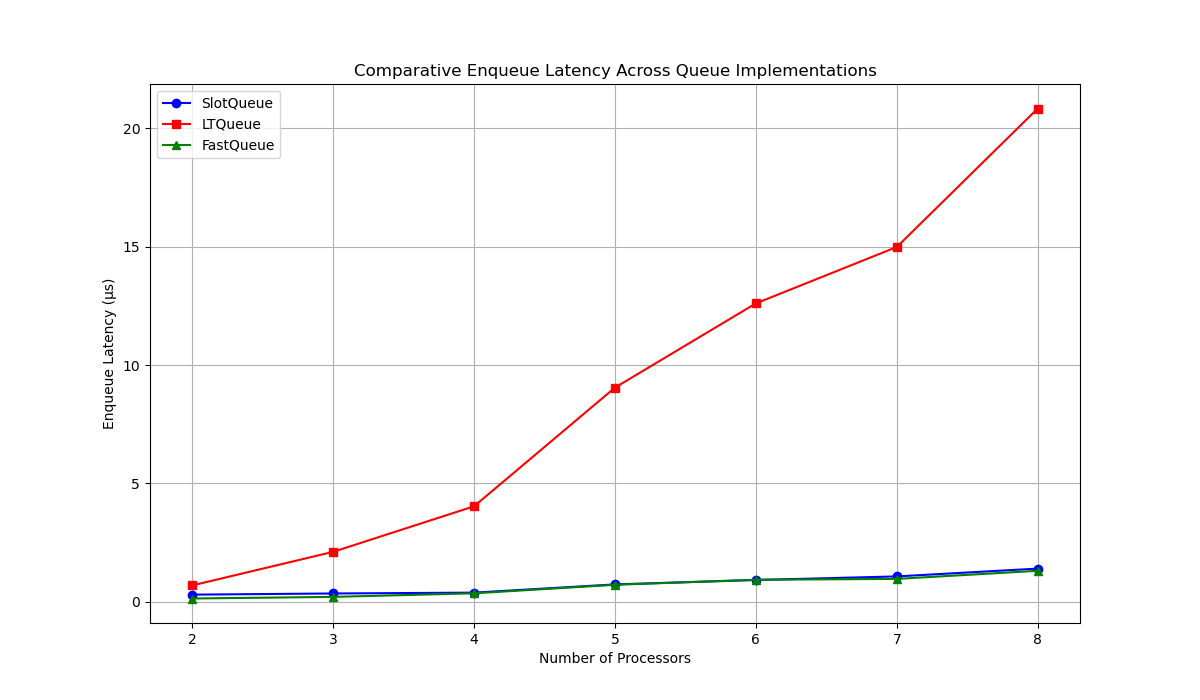
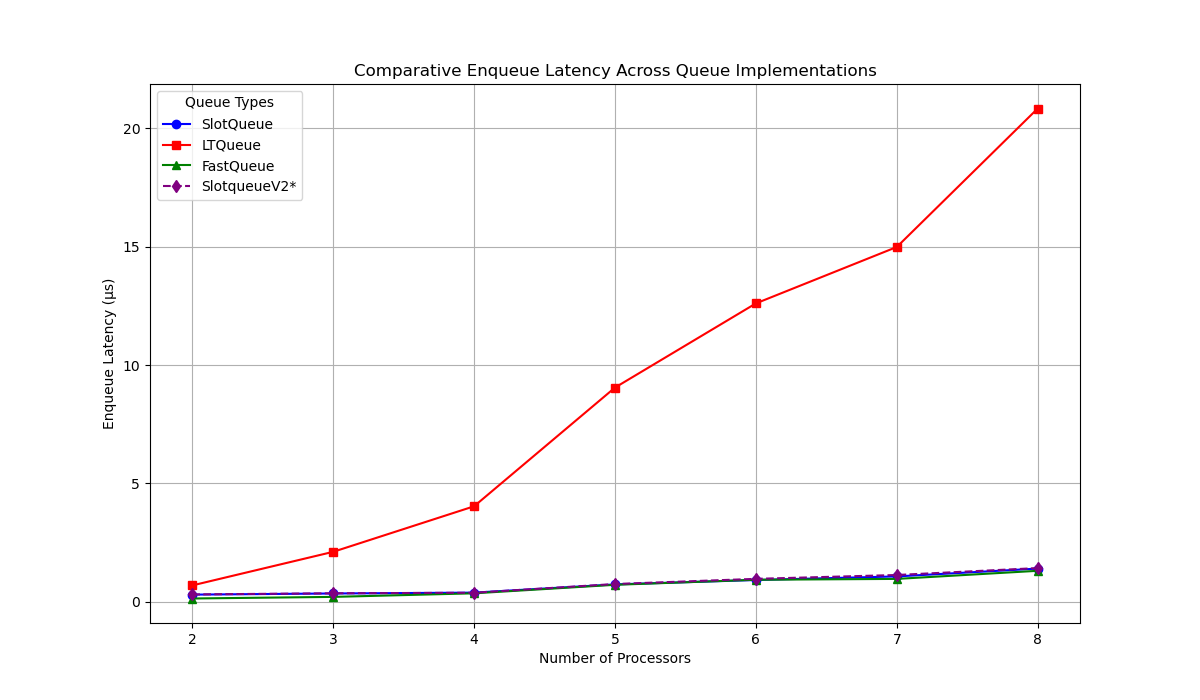
feat: add slotqueue v2 benchmarks

diff --git a/implementations/benches/microbenchmarks/single-one-queue.hpp b/implementations/benches/microbenchmarks/single-one-queue.hpp
@@ -4,6 +4,7 @@
 #include "benches/utils.h"
 #include "ltqueue/ltqueue.hpp"
 #include "slot-queue/slot-queue.hpp"
+#include "slot-queue/slot-queue-v2.hpp"
 #include <chrono>
 #include <mpi.h>
 #include <thread>
@@ -116,6 +117,118 @@ slotqueue_single_one_queue_microbenchmark(unsigned long long number_of_elements,
   }
 
   report("Slotqueue", number_of_elements, iterations, total_microseconds,
+         total_dequeues, total_successful_dequeues, total_dequeues_microseconds,
+         total_enqueues, total_successful_enqueues, total_enqueues_microseconds,
+         total_enqueues_latency_microseconds);
+}
+
+inline void slotqueueV2_single_one_queue_microbenchmark(
+    unsigned long long number_of_elements, int iterations = 10) {
+  int size;
+  int rank;
+  MPI_Comm_size(MPI_COMM_WORLD, &size);
+  MPI_Comm_rank(MPI_COMM_WORLD, &rank);
+  unsigned long long elements_per_queue = number_of_elements / (size - 1) + 1;
+
+  double total_enqueues = 0;
+  double total_dequeues = 0;
+  double total_successful_enqueues = 0;
+  double total_successful_dequeues = 0;
+  double total_microseconds = 0;
+  double total_enqueues_microseconds = 0;
+  double total_dequeues_microseconds = 0;
+  double total_enqueues_latency_microseconds = 0;
+
+  for (int i = 0; i < iterations; ++i) {
+    double local_enqueues = 0;
+    double local_dequeues = 0;
+    double local_successful_enqueues = 0;
+    double local_successful_dequeues = 0;
+    double local_microseconds = 0;
+    double local_enqueues_microseconds = 0;
+    double local_dequeues_microseconds = 0;
+
+    if (rank == 0) {
+      SlotDequeuerV2<int> queue(elements_per_queue, rank, rank, MPI_COMM_WORLD);
+      std::this_thread::sleep_for(std::chrono::microseconds(100));
+      auto t1 = std::chrono::high_resolution_clock::now();
+      while (local_successful_dequeues < number_of_elements) {
+        int output;
+        if (queue.dequeue(&output)) {
+          ++local_dequeues;
+          ++local_successful_dequeues;
+        } else {
+          ++local_dequeues;
+        }
+      }
+      auto t2 = std::chrono::high_resolution_clock::now();
+      local_microseconds =
+          std::chrono::duration_cast<std::chrono::microseconds>(t2 - t1)
+              .count();
+      local_dequeues_microseconds = local_microseconds;
+    } else {
+      SlotEnqueuerV2<int> queue(elements_per_queue, 0, rank, MPI_COMM_WORLD);
+      auto t1 = std::chrono::high_resolution_clock::now();
+      for (unsigned long long i = 0; i < elements_per_queue; ++i) {
+        if (queue.enqueue(i)) {
+          ++local_enqueues;
+          ++local_successful_enqueues;
+        } else {
+          ++local_enqueues;
+        }
+      }
+      auto t2 = std::chrono::high_resolution_clock::now();
+      local_microseconds =
+          std::chrono::duration_cast<std::chrono::microseconds>(t2 - t1)
+              .count();
+      local_enqueues_microseconds = local_microseconds;
+    }
+
+    double enqueues = 0;
+    double dequeues = 0;
+    double successful_enqueues = 0;
+    double successful_dequeues = 0;
+    double microseconds = 0;
+    double enqueues_microseconds = 0;
+    double dequeues_microseconds = 0;
+    double enqueues_latency_microseconds = 0;
+
+    MPI_Allreduce(&local_dequeues, &dequeues, 1, MPI_DOUBLE, MPI_SUM,
+                  MPI_COMM_WORLD);
+
+    MPI_Allreduce(&local_enqueues, &enqueues, 1, MPI_DOUBLE, MPI_SUM,
+                  MPI_COMM_WORLD);
+
+    MPI_Allreduce(&local_successful_dequeues, &successful_dequeues, 1,
+                  MPI_DOUBLE, MPI_SUM, MPI_COMM_WORLD);
+
+    MPI_Allreduce(&local_successful_enqueues, &successful_enqueues, 1,
+                  MPI_DOUBLE, MPI_SUM, MPI_COMM_WORLD);
+
+    MPI_Allreduce(&local_microseconds, &microseconds, 1, MPI_DOUBLE, MPI_MAX,
+                  MPI_COMM_WORLD);
+
+    MPI_Allreduce(&local_enqueues_microseconds, &enqueues_microseconds, 1,
+                  MPI_DOUBLE, MPI_SUM, MPI_COMM_WORLD);
+    enqueues_microseconds /= size - 1;
+
+    MPI_Allreduce(&local_enqueues_microseconds, &enqueues_latency_microseconds,
+                  1, MPI_DOUBLE, MPI_SUM, MPI_COMM_WORLD);
+
+    MPI_Allreduce(&local_dequeues_microseconds, &dequeues_microseconds, 1,
+                  MPI_DOUBLE, MPI_MAX, MPI_COMM_WORLD);
+
+    total_enqueues += enqueues;
+    total_dequeues += dequeues;
+    total_successful_dequeues += successful_dequeues;
+    total_successful_enqueues += successful_enqueues;
+    total_microseconds += microseconds;
+    total_enqueues_microseconds += enqueues_microseconds;
+    total_enqueues_latency_microseconds += enqueues_latency_microseconds;
+    total_dequeues_microseconds += dequeues_microseconds;
+  }
+
+  report("SlotqueueV2", number_of_elements, iterations, total_microseconds,
          total_dequeues, total_successful_dequeues, total_dequeues_microseconds,
          total_enqueues, total_successful_enqueues, total_enqueues_microseconds,
          total_enqueues_latency_microseconds);

diff --git a/benches/microbenchmarks/single-one-queue.py b/benches/microbenchmarks/single-one-queue.py
@@ -151,6 +151,53 @@ queue_data = {
             65.3803,
         ],
     },
+    "SlotqueueV2": {
+        "dequeue_throughput": [
+            24.5842,
+            24.3886,
+            23.5447,
+            18.4806,
+            17.174,
+            16.0234,
+            16.4853,
+        ],
+        "dequeue_latency": [
+            0.406766,
+            0.410027,
+            0.424724,
+            0.541109,
+            0.582274,
+            0.624086,
+            0.606602,
+        ],
+        "enqueue_throughput": [
+            31.7521,
+            55.099,
+            77.695,
+            52.9901,
+            51.4058,
+            52.8412,
+            49.0054,
+        ],
+        "enqueue_latency": [
+            0.31494,
+            0.362983,
+            0.386125,
+            0.754859,
+            0.972652,
+            1.13548,
+            1.42841,
+        ],
+        "total_throughput": [
+            49.1684,
+            48.7773,
+            47.0895,
+            36.9612,
+            34.3482,
+            32.0469,
+            32.9707,
+        ],
+    },
 }
 
 # Metrics to plot
@@ -176,6 +223,7 @@ queue_styles = {
     "SlotQueue": {"color": "blue", "marker": "o"},
     "LTQueue": {"color": "red", "marker": "s"},
     "FastQueue": {"color": "green", "marker": "^"},
+    "SlotqueueV2": {"color": "purple", "marker": "d", "linestyle": "--"},
 }
 
 # Generate merged plots for each metric
@@ -191,7 +239,8 @@ for metric in metrics:
             queue_metrics[metric],
             color=style["color"],
             marker=style["marker"],
-            label=queue_name,
+            linestyle=style.get("linestyle", "-"),
+            label=f"{queue_name}{'*' if queue_name == 'SlotqueueV2' else ''}",
         )
 
     # Set title and labels
@@ -202,7 +251,7 @@ for metric in metrics:
 
     # Add grid and legend
     plt.grid(True)
-    plt.legend()
+    plt.legend(title="Queue Types", loc="best")
 
     # Save the plot
     filename = f"{output_dir}/{metric}_comparison.png"
@@ -210,3 +259,6 @@ for metric in metrics:
     plt.close()  # Close the figure to free up memory
 
 print("All comparative plots have been generated in the 'single-one-queue' folder.")
+print(
+    "Note: SlotqueueV2 is marked with an asterisk (*) in the legend to indicate it is experimental."
+)

diff --git a/implementations/main.cpp b/implementations/main.cpp
@@ -9,6 +9,7 @@ int main(int argc, char **argv) {
   MPI_Init(&argc, &argv);
 
   slotqueue_single_one_queue_microbenchmark(1000000);
+  slotqueueV2_single_one_queue_microbenchmark(1000000);
   ltqueue_single_one_queue_microbenchmark(1000000);
   fastqueue_single_one_queue_microbenchmark(1000000);
 
